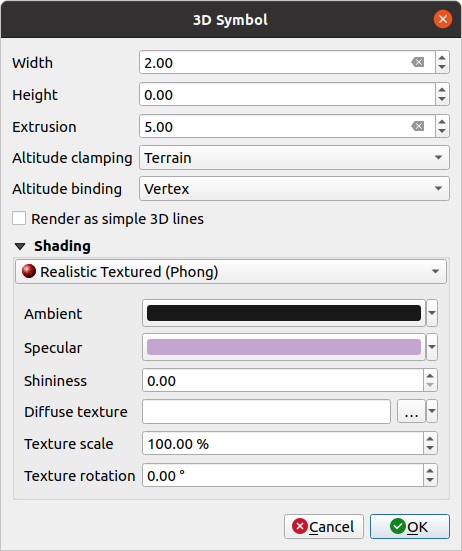
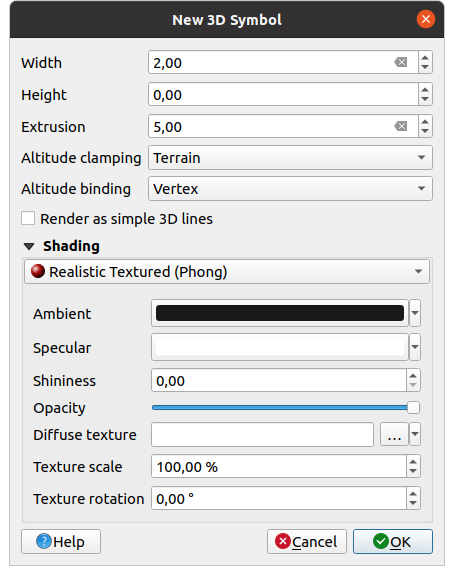
Add opacity to shading texture in 3D

Changed region(s): [[0.0, 0.0, 1.0, 1.0], [0.0617, 0.9256, 0.185, 0.9564]]

diff --git a/docs/user_manual/style_library/3d_symbols.rst b/docs/user_manual/style_library/3d_symbols.rst
@@ -55,7 +55,7 @@ Point Layers
   can be used when height values of the 3d vectors are provided as absolute
   measures from 0. :guilabel:`Relative` and :guilabel:`Terrain` add given
   elevation values to the underlying terrain elevation.
-* The :ref:`shading <shading_texture>` can be defined.
+* The :ref:`shading <shading_texture>` properties can be defined.
 * Under the :guilabel:`Transformations` frame, you can apply affine transformation
   to the symbol:
 
@@ -86,8 +86,7 @@ Line layers
   terrain. Either every :guilabel:`Vertex` of the feature will be clamped
   to the terrain or this will be done by the :guilabel:`Centroid`.
 * It is possible to |checkbox|:guilabel:`Render as simple 3D lines`.
-* The shading can be defined in the menus :guilabel:`Diffuse`, :guilabel:`Ambient`,
-  :guilabel:`Specular` and :guilabel:`Shininess`.
+* The :ref:`shading <shading_texture>` properties can be defined.
 
 .. _`3d_polygonlayers`:
 
@@ -132,7 +131,7 @@ Polygon Layers
   order of vertices).
 * |checkbox| :guilabel:`Invert normals (experimental)`: can be useful for fixing
   clockwise/counter-clockwise face vertex orders
-* The :ref:`shading <shading_texture>` can be defined.
+* The :ref:`shading <shading_texture>` properties can be defined.
 * Display of the |checkbox| :guilabel:`Edges` of the symbols can be enabled
   and assigned a :guilabel:`Width` and :guilabel:`Color`.
 
@@ -164,12 +163,14 @@ on the geometry type of the symbol:
   the :guilabel:`Specular` reflection of shiny surfaces (:guilabel:`Shininess`).
   It also includes an :guilabel:`Ambient` option to account for the small amount
   of light that is scattered about the entire scene.
+  Use the :guilabel:`Opacity` slider to render semi-transparent objects in 3D.
   Read more at https://en.wikipedia.org/wiki/Phong_reflection_model#Description
 * :guilabel:`Realistic Textured (Phong)`: same as the :guilabel:`Realistic (Phong)`
   except that an image is used as :guilabel:`Diffuse Texture`.
   The image can be a file on disk, a remote URL or :ref:`embedded in the project
   <embedded_file_selector>`.
   The :guilabel:`Texture scale` and :guilabel:`Texture rotation` are required.
+  Use the :guilabel:`Opacity` slider to render semi-transparent objects in 3D.
 * :guilabel:`CAD (Gooch)`: this technique allows shading to occur only in mid-tones
   so that edge lines and highlights remain visually prominent. Along with the
   :guilabel:`Diffuse`, :guilabel:`Specular`, :guilabel:`Shininess` options,
